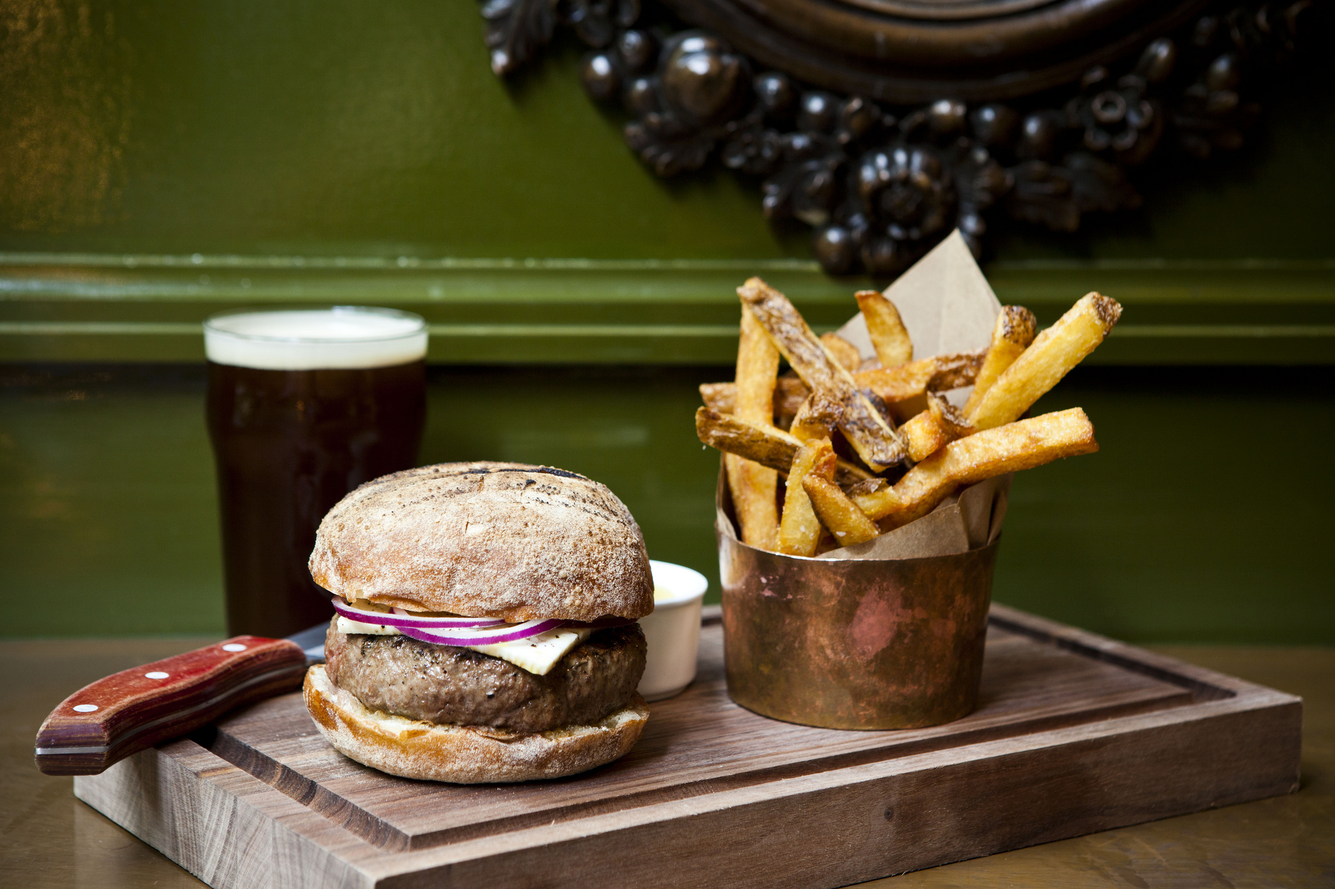
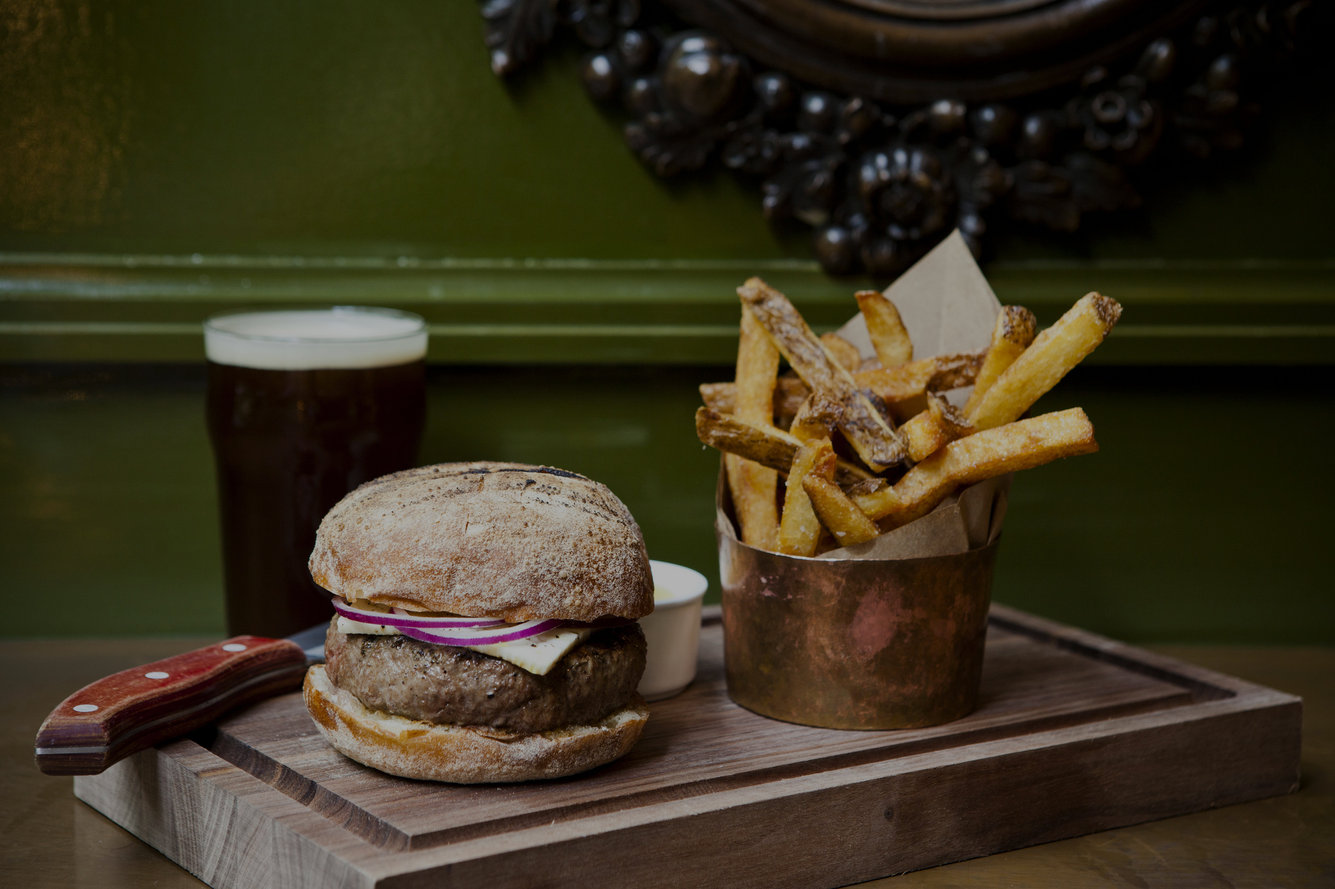
TILE SYMBOL

diff --git a/tabs.html b/tabs.html
@@ -5,6 +5,7 @@
     <title>Onglet Menu</title>
     <meta name="viewport" content="width=device-width, initial-scale=1">
     <link rel="stylesheet" href="https://maxcdn.bootstrapcdn.com/bootstrap/3.3.7/css/bootstrap.min.css">
+    <script defer src="https://use.fontawesome.com/releases/v5.0.8/js/all.js"></script>
     <link rel="stylesheet" href="css/tabs.css">
 
 
@@ -12,8 +13,8 @@
 
   </head>
   <body>
-<header>
-  <div class="cover-container background cover-page">
+<header class="cover-container">
+  <div class="container-fluid background cover-page">
 
     <!-- NAVBAR -->
     <header class="banner navbar navbar-default navbar-fixed-top" role="banner">
@@ -46,30 +47,30 @@
     </div>
     <div class="container-fluid metro hidden-xs">
     <div class="row ">
-      <div class="col-sm-4 col-sm-offset-2">
+      <div class="col-sm-4 col-sm-offset-2 text-center">
           <a href="#" class="tile purple">
             <h3 class="title">RESTAURANT</h3>
-            <p>Découvrez notre selection de burger prenium !</p>
+            <i class="fas fa-utensils fa-5x"></i>
           </a>
       </div>
-      <div class="col-sm-4 ">
+      <div class="col-sm-4 text-center">
           <a href="#" class="tile orange">
             <h3 class="title">EVENT</h3>
-            <p>Tous vos evenements sportifs en direct !</p>
+            <i class="fas fa-football-ball fa-5x"></i>
           </a>
       </div>
     </div>
     <div class="row">
-      <div class="col-sm-4 col-sm-offset-2">
+      <div class="col-sm-4 col-sm-offset-2 text-center">
           <a href="#" class="tile green">
             <h3 class="title">HISTORY</h3>
-            <p>La véritable histoire du Sir John Lock</p>
+            <img class="img-responsive center-block logo" src="./img/logo-white-no-text.png" alt="the market tavern logo">
           </a>
       </div>
-      <div class="col-sm-4">
+      <div class="col-sm-4 text-center">
           <a href="#" class="tile blue">
             <h3 class="title">DRAFT & BEER</h3>
-            <p>Short, sweet data point goes here.</p>
+            <i class="fas fa-beer fa-5x"></i>
           </a>
       </div>
     </div>

diff --git a/css/tabs.css b/css/tabs.css
@@ -329,9 +329,12 @@ div.container-fluid > div > div > div> div > ul > li, .ligne_coktail > div > div
 
 
 /* COVER PAGE */
+.cover-container {
+  height: 100vh;
+}
 
 .background {
-  background-image: url(../img/cover-page.jpg);
+  background-image: url(../img/cover-page-overlay-0.15.jpg);
   background-position: center;
   background-repeat: no-repeat;
   background-size: cover;
@@ -456,9 +459,6 @@ div.container-fluid > div > div > div> div > ul > li, .ligne_coktail > div > div
 }
 
 /* METRO UI */
-.metro {
-  border: 3px solid #AC193D;
-}
 
 .tile {  
   width: 100%;
@@ -466,7 +466,7 @@ div.container-fluid > div > div > div> div > ul > li, .ligne_coktail > div > div
   box-sizing: border-box;
   color: #fff;  
   padding: 20px;
-  margin-bottom: 10px;
+  margin-bottom: 30px;
 }
 
 .title {
@@ -511,7 +511,10 @@ div.container-fluid > div > div > div> div > ul > li, .ligne_coktail > div > div
 .green:hover {
   background-color: #008C00;
   color: white;
-
+}
+  /* FIX PIG SIZE */
+.logo {
+  height: 70px;
 }
 
 /* CSS footer */
